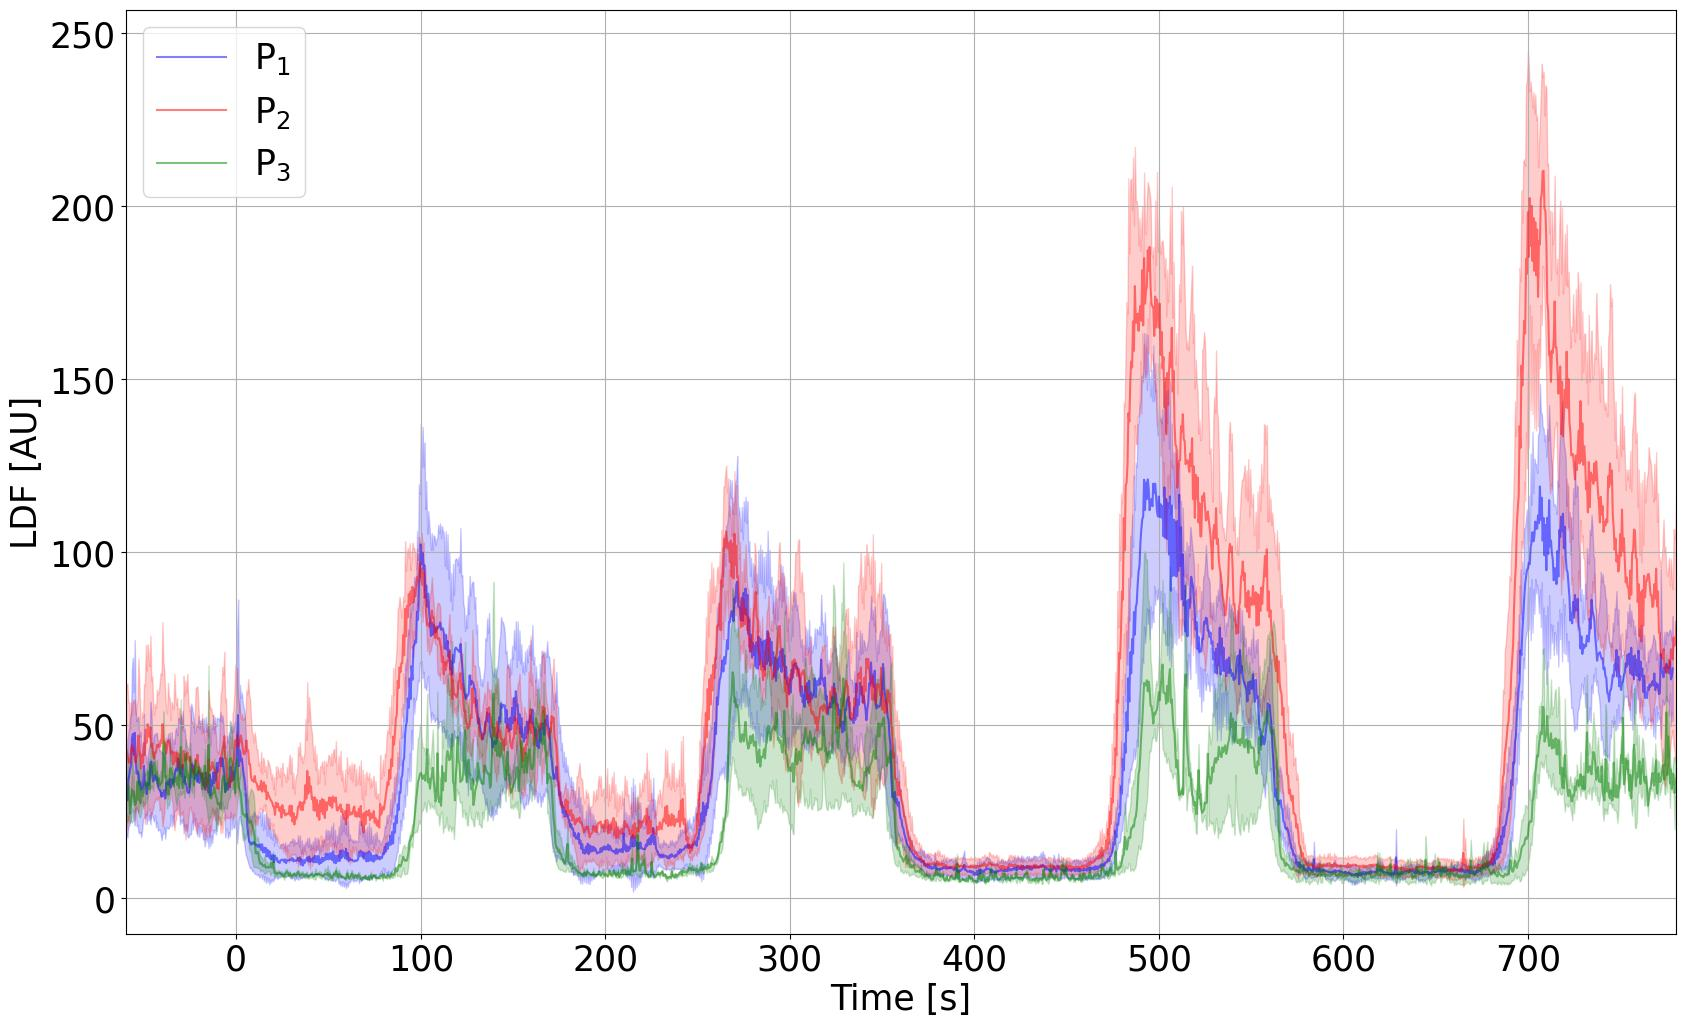
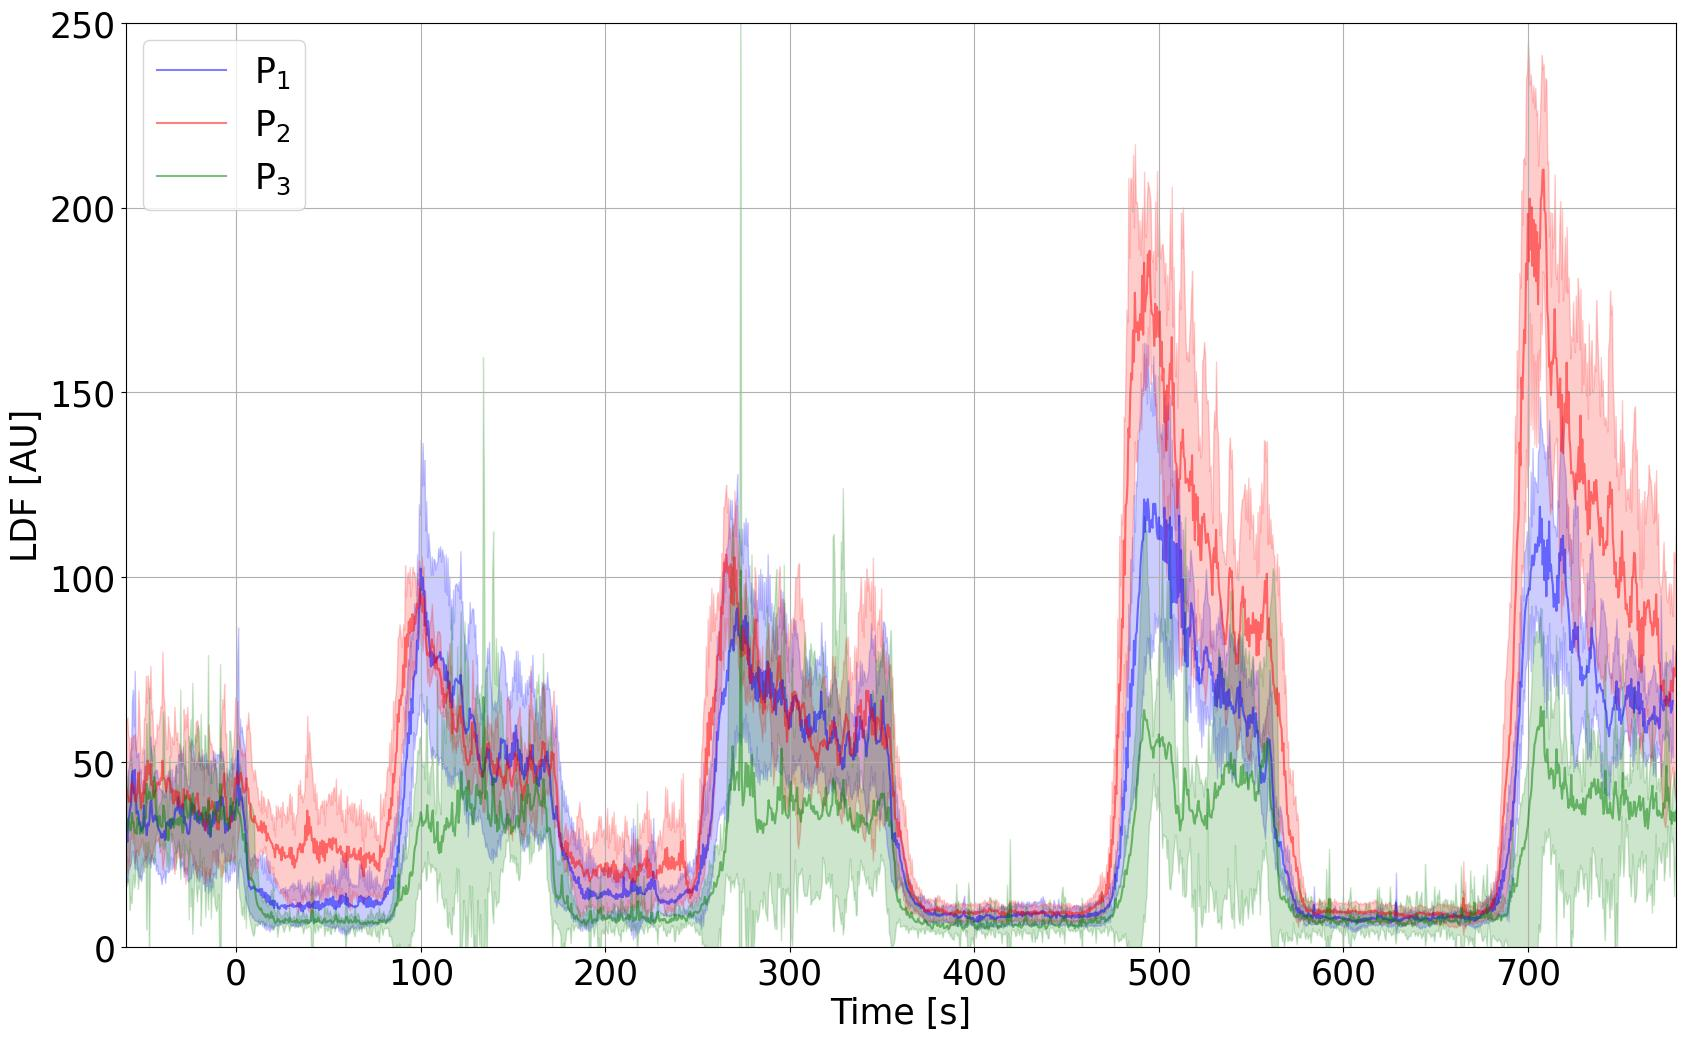
update

diff --git a/Experimental_Data/LDF_post_treatment.py b/Experimental_Data/LDF_post_treatment.py
@@ -325,19 +325,19 @@ all_mms_pc = [all_means_pc[i]-all_std_pc[i] for i in range(len(all_means_pc))]
 all_mps_pc = [all_means_pc[i]+all_std_pc[i] for i in range(len(all_means_pc))]
 
 
-first_occlusions = np.mean( [ all_means[175:270],all_means[500:620] ] )
-first_occlusionsold = np.mean( [ np.mean(ASE_mean_signal_raw[175:270]),np.mean(JOL_mean_signal_raw[170:270]),np.mean(ASE_mean_signal_raw[500:620]) ,np.mean(JOL_mean_signal_raw[510:620]) ] )
-print(first_occlusions,first_occlusionsold)
+# first_occlusions = np.mean( [ all_means[175:270],all_means[500:620] ] )
+# first_occlusionsold = np.mean( [ np.mean(ASE_mean_signal_raw[175:270]),np.mean(JOL_mean_signal_raw[170:270]),np.mean(ASE_mean_signal_raw[500:620]) ,np.mean(JOL_mean_signal_raw[510:620]) ] )
+# print(first_occlusions,first_occlusionsold)
 
-std_fo = np.std([np.mean(all_means[175:270]),np.mean(all_means[500:620]) ] )
-std_foold = np.std([np.mean(ASE_mean_signal_raw[175:270]),np.mean(JOL_mean_signal_raw[170:270]),np.mean(ASE_mean_signal_raw[500:620]),np.mean(JOL_mean_signal_raw[510:620]) ] )
-print(first_occlusions,std_fo,std_foold)
+# std_fo = np.std([np.mean(all_means[175:270]),np.mean(all_means[500:620]) ] )
+# std_foold = np.std([np.mean(ASE_mean_signal_raw[175:270]),np.mean(JOL_mean_signal_raw[170:270]),np.mean(ASE_mean_signal_raw[500:620]),np.mean(JOL_mean_signal_raw[510:620]) ] )
+# print(first_occlusions,std_fo,std_foold)
 
-last_occlusions = np.mean( [ np.mean(ASE_mean_signal_raw[875:1000]),np.mean(JOL_mean_signal_raw[875:1000]),np.mean(ASE_mean_signal_raw[500:620]) ,np.mean(JOL_mean_signal_raw[1300:1460]) ] )
-print(last_occlusions)
+# last_occlusions = np.mean( [ np.mean(ASE_mean_signal_raw[875:1000]),np.mean(JOL_mean_signal_raw[875:1000]),np.mean(ASE_mean_signal_raw[500:620]) ,np.mean(JOL_mean_signal_raw[1300:1460]) ] )
+# print(last_occlusions)
 
-std_lo = np.std([np.mean(ASE_mean_signal_raw[875:1000]),np.mean(JOL_mean_signal_raw[875:1000]),np.mean(ASE_mean_signal_raw[500:620]),np.mean(JOL_mean_signal_raw[1300:1460]) ] )
-print(last_occlusions,std_lo)
+# std_lo = np.std([np.mean(ASE_mean_signal_raw[875:1000]),np.mean(JOL_mean_signal_raw[875:1000]),np.mean(ASE_mean_signal_raw[500:620]),np.mean(JOL_mean_signal_raw[1300:1460]) ] )
+# print(last_occlusions,std_lo)
 
 idex0 = 1300
 idex = 1460
@@ -364,6 +364,7 @@ plt.plot(MDI_PREVAIL_LBM_026["j1_2"]["temps (s)"][index_12_MDI-130:index_12_MDI+
 plt.fill_between(MDI_PREVAIL_LBM_026["j1_2"]["temps (s)"][index_12_MDI-130:index_12_MDI+length_list_MDI], MDI_mms_raw, MDI_mps_raw, color='g', alpha=0.2)
 plt.legend()
 plt.xlim([-60, 780])
+plt.ylim([0, 250])
 plt.xlabel("Time [s]")
 plt.ylabel("LDF [AU]")
 plt.grid()
@@ -387,6 +388,8 @@ plt.grid()
 plt.savefig('superp_mean_std_temp_raw.jpg', bbox_inches='tight')
 
 
+
+
 # # 
 
 # # Load the Excel file
@@ -405,22 +408,30 @@ plt.savefig('superp_mean_std_temp_raw.jpg', bbox_inches='tight')
 # for sheet_name, data in all_sheets.items():
 #     model[sheet_name] = {col: data[col] for col in column_names if col in data.columns}
 # 
+plt.rcParams.update({'font.size': 25})
+plt.figure(figsize=(20, 12))
+plt.plot(JOL_PREVAIL_LBM_008["j2_2"]["temps (s)"][index_22:index_22+length_list], all_means_pc, color='k', label="Exp", alpha=0.5, linewidth=3)
+plt.fill_between(JOL_PREVAIL_LBM_008["j2_2"]["temps (s)"][index_22:index_22+length_list], all_mms_pc, all_mps_pc, color='k', alpha=0.2)
+
+# 
 # plt.plot(model["REF_export"]["time_all"][:774], model["REF_export"]["LDF_baseline_q"][6:780], color='b', label="Set$_1$", linewidth=3)
-# # plt.plot(model["ID_62_export"]["time_all"][:794], model["ID_62_export"]["LDF_baseline_q"][6:800], color='g', label="ID_62", linewidth=2)
+# plt.plot(model["ID_62_export"]["time_all"][:794], model["ID_62_export"]["LDF_baseline_q"][6:800], color='g', label="ID_62", linewidth=2)
 # plt.plot(model["ID_63_export"]["time_all"][:774], model["ID_63_export"]["LDF_baseline_q"][6:780], color='r', label="Set$_2$", linewidth=3)
 # plt.plot(model["ID_66_export"]["time_all"][:774], model["ID_66_export"]["LDF_baseline_q"][6:780], color='g', label="Set$_3$", linewidth=3)
-# # plt.plot(model["ID_2_export"]["time_all"][:794], model["ID_2_export"]["LDF_baseline_q"][6:800], color='g', label="ID_2", linewidth=2)
-# # plt.plot(model["ID_6_export"]["time_all"][:794], model["ID_6_export"]["LDF_baseline_q"][6:800], color='b', label="ID_6", linewidth=2)
-# # plt.plot(model["ID_11_export"]["time_all"][:794], model["ID_11_export"]["LDF_baseline_q"][6:800], color='hotpink', label="ID_11", linewidth=2)
-# # plt.plot(model["ID_36_export"]["time_all"][:794], model["ID_36_export"]["LDF_baseline_q"][6:800], color='y', label="ID_36", linewidth=2)
-# # plt.plot(model["ID_58_export"]["time_all"][:794], model["ID_58_export"]["LDF_baseline_q"][6:800], color='olivedrab', label="ID_58", linewidth=2)
-# # plt.plot(model["ID_59_export"]["time_all"][:794], model["ID_59_export"]["LDF_baseline_q"][6:800], color='cyan', label="ID_59", linewidth=2)
-# # plt.legend()
-# plt.xlim([0, 780])
-# plt.legend(loc='center left', bbox_to_anchor=(1, 0.5))
-# plt.xlabel("Time [s]")
-# plt.ylabel("LDF [%]")
-# plt.grid()
-# plt.savefig('superp_mean_std_model_sensitivity.jpg', bbox_inches='tight')
+# plt.plot(model["ID_2_export"]["time_all"][:794], model["ID_2_export"]["LDF_baseline_q"][6:800], color='g', label="ID_2", linewidth=2)
+# plt.plot(model["ID_6_export"]["time_all"][:794], model["ID_6_export"]["LDF_baseline_q"][6:800], color='b', label="ID_6", linewidth=2)
+# plt.plot(model["ID_11_export"]["time_all"][:794], model["ID_11_export"]["LDF_baseline_q"][6:800], color='hotpink', label="ID_11", linewidth=2)
+# plt.plot(model["ID_36_export"]["time_all"][:794], model["ID_36_export"]["LDF_baseline_q"][6:800], color='y', label="ID_36", linewidth=2)
+# plt.plot(model["ID_58_export"]["time_all"][:794], model["ID_58_export"]["LDF_baseline_q"][6:800], color='olivedrab', label="ID_58", linewidth=2)
+# plt.plot(model["ID_59_export"]["time_all"][:794], model["ID_59_export"]["LDF_baseline_q"][6:800], color='cyan', label="ID_59", linewidth=2)
+# plt.legend()
+plt.xlim([0, 780])
+plt.ylim([0, 600])
+plt.legend(loc='center left', bbox_to_anchor=(1, 0.5))
+plt.xlabel("Time [s]")
+plt.ylabel("LDF [%]")
+plt.grid()
+plt.savefig('all_mean_std.jpg', bbox_inches='tight')
+
 
 
